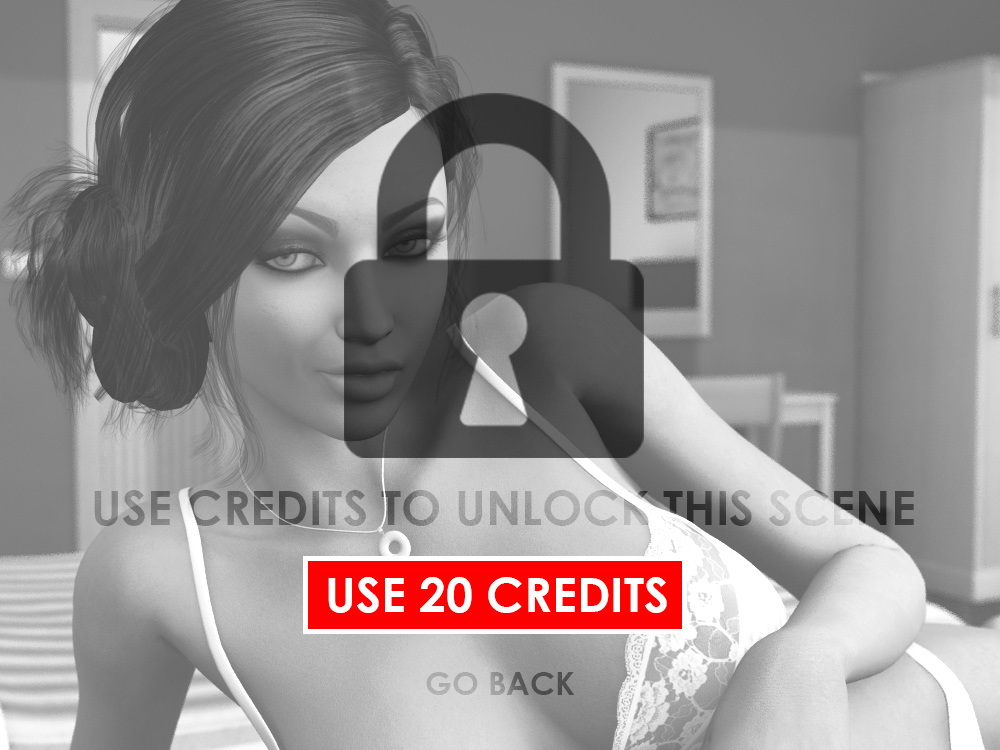
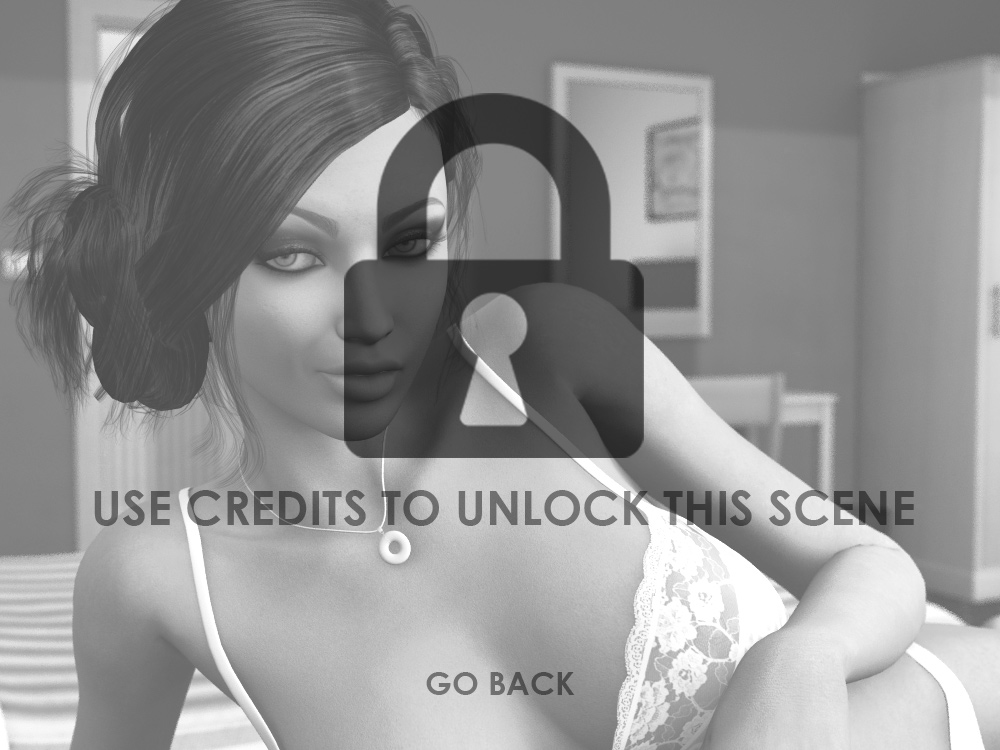
Updated payment screen at natalia40_locked in the Introduction

diff --git a/static/academy_intro/game/natalia40_locked.html b/static/academy_intro/game/natalia40_locked.html
@@ -75,8 +75,8 @@
 
 <!--inventory end-->
 
-    <td width="1000" class="relativePosition"><img src="images/unlock/locked_grey.jpg" alt="" usemap="#Map" id="buybuttonImage"/>
-   <img src="images/unlock/use_10.jpg" id="buybutton" onclick="emitCheck('jVPB0ws7x2EDgI8Aq75K|20')">
+    <td width="1000" class="relativePosition"><img src="images/natalia40_locked.jpg" alt="" usemap="#Map" id="buybuttonImage"/>
+   <img src="buttonsetc/20credits.jpg" id="buybutton" onclick="emitCheck('jVPB0ws7x2EDgI8Aq75K|20')">
       <map name="Map" id="Map">
 
        
@@ -86,7 +86,7 @@
    
       </td>
        <td width="1000" class="relativePosition">
-       <img src="images/unlock/unlocked_natalia.jpg" alt="" usemap="#Map"  id="availableButtonImage"/>
+       <img src="images/natalia40_unlocked.jpg" alt="" usemap="#Map"  id="availableButtonImage"/>
 
       <map name="Map" id="Map">
 
@@ -95,7 +95,7 @@
 		 
 	</map>
 
-    <a href="nataliabonus1.html" ><img src="images/unlock/unlocked_button.jpg" id="availableButton"> </a>
+    <a href="nataliabonus1.html" ><img src="buttonsetc/play_scene.jpg" id="availableButton"> </a>
       </td>
     
   
